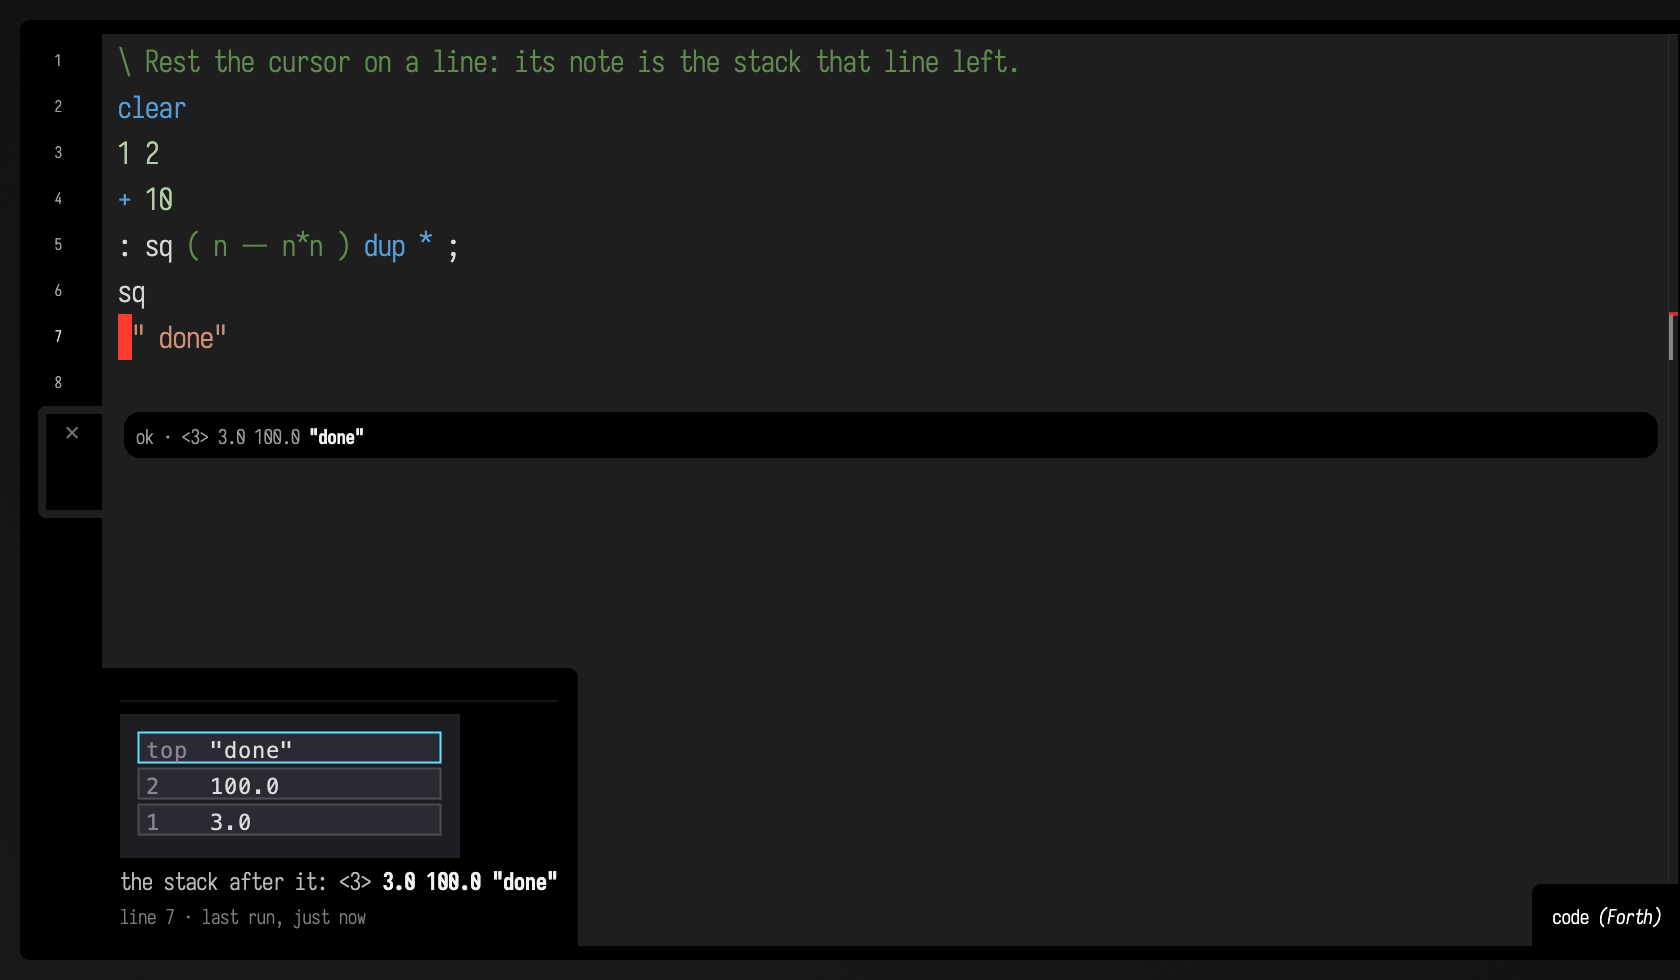
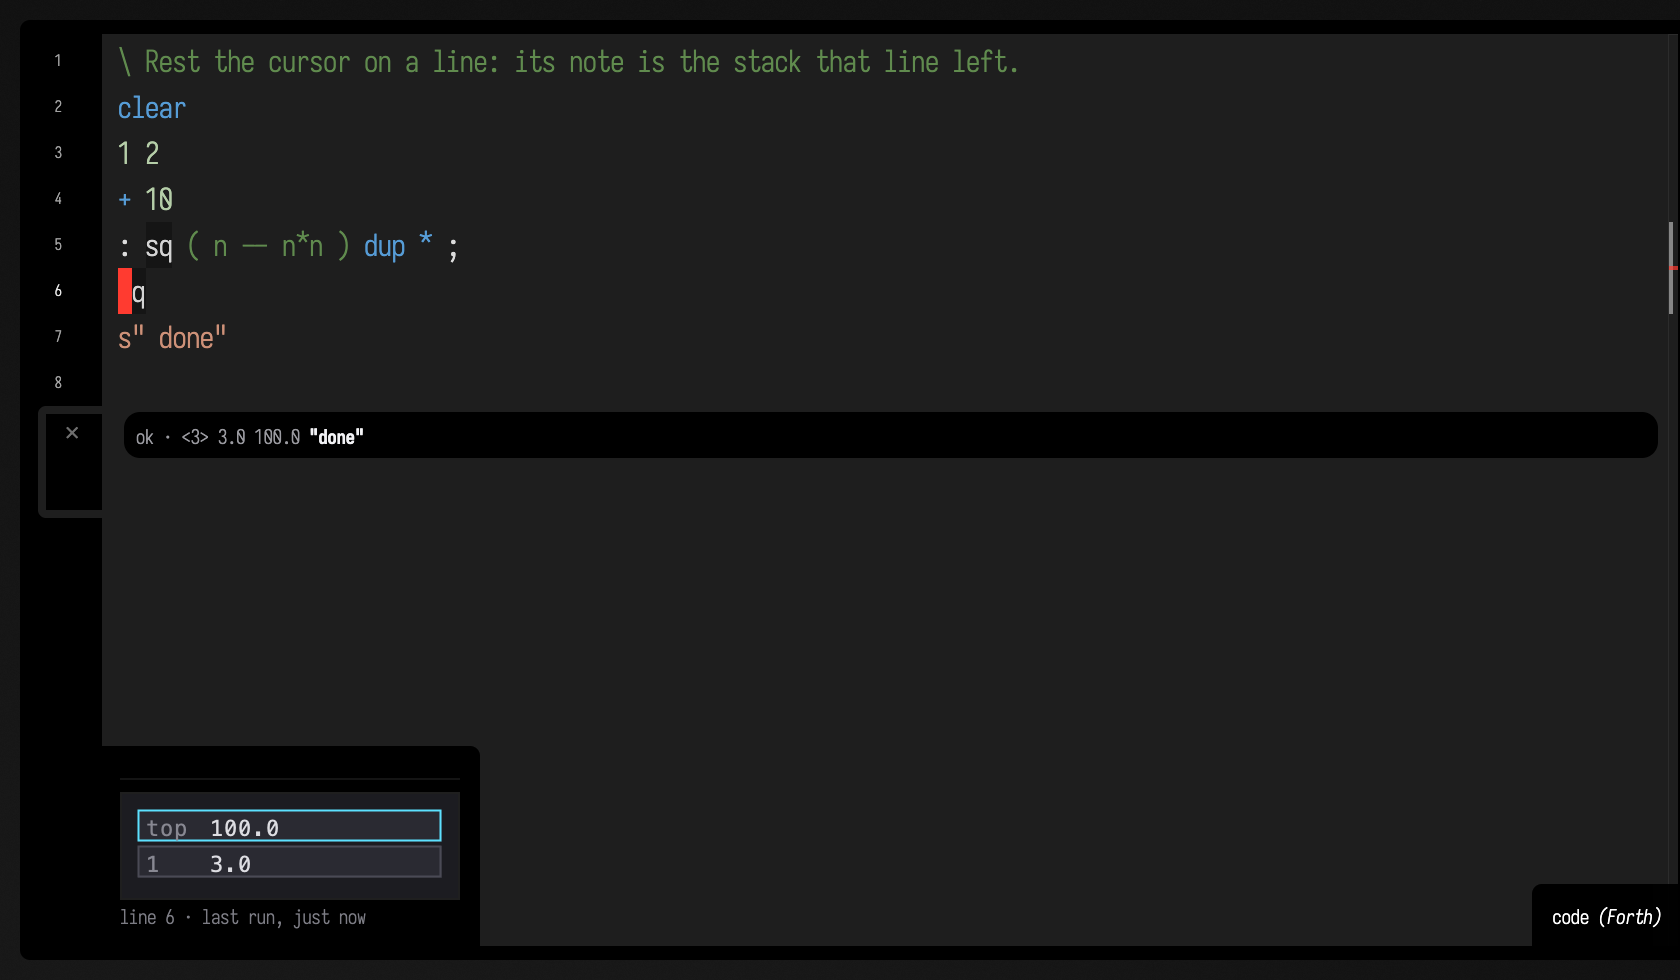
Line notes: a picture is not also written out; the Forth figure rests on a mid-program line
- A Forth note that draws its stack no longer writes the stack out beside the picture: the value line
  holds only what the picture does not say — "defines sq" — and an empty stack's picture already says
  "empty stack". LastRunNotes.Produced.besidePicture carries that; the caption keeps the whole sentence,
  so ReadLineNotes (whose reader may not see the picture) still gets the stack as text, and a note shown
  without its picture (its line changed since the run) shows the full value. The editor shows a note
  with meta and no value as its picture and meta alone. A Datalog rule's value line now only counts what
  it derives, since the table lists the facts; the caption still names the first few.
- forth_examples/line_note_stack.png rests on line 6, sq: the note (100.0 over 3.0) now says something the
  run's ok · <3> 3.0 100.0 "done" strip under the last line does not. Page text and alt text follow.
- Recaptured with the caret held solid (1617a1e95): the Forth and "changed since the last run" figures
  show the caret; the Python note figure is clipped to the note.

LastRunNotesTest: the split-note test now expects no value beside the picture, and a new test covers
"defines sq" beside a picture and the stack written out again once the line has changed (13 tests).

Changed region(s): [[0.0619, 0.6735, 0.3714, 0.9796], [0.9905, 0.2143, 1.0, 0.3673], [0.0619, 0.2755, 0.0929, 0.3673]]

diff --git a/src/jvmMain/kotlin/afield/stdlib/LastRunNotes.kt b/src/jvmMain/kotlin/afield/stdlib/LastRunNotes.kt
@@ -41,6 +41,13 @@ object LastRunNotes {
         val picture: (() -> ByteArray?)? = null,
         /** Device pixels per CSS pixel of the picture. */
         val imageScale: Int = 1,
+        /**
+         * What to show beside the picture, when it is shown: [value] less whatever the picture already
+         * says (a Forth stack is drawn, so it is not also written out). Null: [value]. The caption keeps
+         * the whole sentence, for a reader that cannot see the picture; a note without its picture (one
+         * whose line has changed since) shows [value].
+         */
+        val besidePicture: List<LineNotes.Segment>? = null,
     )
 
     private enum class Kind { PRODUCED, STOPPED, NOT_REACHED }
@@ -49,6 +56,7 @@ object LastRunNotes {
     private class Entry(
         val first: Int, val lines: List<String>, val kind: Kind, val caption: String, drawPng: () -> ByteArray?, val at: Long,
         val value: List<LineNotes.Segment> = emptyList(), val imageScale: Int = 1,
+        val besidePicture: List<LineNotes.Segment>? = null,
     ) {
         val last get() = first + lines.size - 1
         val png: ByteArray? by lazy(drawPng)
@@ -85,7 +93,7 @@ object LastRunNotes {
             .associateBy { it.firstLine to it.lastLine }.values
             .forEach { p ->
                 fresh += Entry(lineOffset + p.firstLine, linesOf(p.firstLine, p.lastLine), Kind.PRODUCED, p.caption,
-                    { p.png ?: p.picture?.invoke() }, at, p.value, p.imageScale)
+                    { p.png ?: p.picture?.invoke() }, at, p.value, p.imageScale, p.besidePicture)
             }
         if (stoppedAt != null && stoppedAt in 1..codeLines.size) {
             fresh.removeAll { stoppedAt + lineOffset in it.first..it.last }
@@ -132,8 +140,12 @@ object LastRunNotes {
             val ago = ago(now - e.at)
             val meta = "last run, $ago"
             return when (e.kind) {
-                Kind.PRODUCED -> LineNotes.Note("$meta · ${e.caption}", e.png, volatile = true, meta = meta,
-                    value = e.value.ifEmpty { listOf(LineNotes.plain(e.caption)) }, imageScale = if (e.png != null) e.imageScale else 1)
+                Kind.PRODUCED -> {
+                    val png = e.png
+                    val value = if (png != null && e.besidePicture != null) e.besidePicture else e.value.ifEmpty { listOf(LineNotes.plain(e.caption)) }
+                    LineNotes.Note("$meta · ${e.caption}", png, volatile = true, meta = meta, value = value,
+                        imageScale = if (png != null) e.imageScale else 1)
+                }
                 Kind.STOPPED -> LineNotes.Note("$meta · stopped here: ${e.caption}", volatile = true, meta = meta,
                     value = listOf(LineNotes.plain("stopped here: "), LineNotes.strong(e.caption)))
                 Kind.NOT_REACHED -> LineNotes.Note("$meta · not reached: the run stopped above this line", volatile = true, meta = meta,

diff --git a/src/jvmTest/kotlin/afield/stdlib/LastRunNotesTest.kt b/src/jvmTest/kotlin/afield/stdlib/LastRunNotesTest.kt
@@ -151,8 +151,8 @@ class LastRunNotesTest {
         ForthInterpreter().evalRecordingLineNotes(box, code, 0)
         val note = assertNotNull(LastRunNotes.note(box, "code", code, 1, now = System.currentTimeMillis()))
         assertEquals("last run, just now", note.meta)
-        assertEquals(listOf("1.0", "2.0"), note.value.filter { it.strong }.map { it.text })
-        assertEquals(note.caption, note.meta + " · " + note.value.joinToString("") { it.text }, "the caption is still the whole sentence")
+        assertTrue(note.value.isEmpty(), "the picture draws the stack, so it is not also written out")
+        assertEquals("last run, just now · the stack after it: <2> 1.0 2.0", note.caption, "the caption keeps it, for a reader that cannot see the picture")
         assertEquals(LineNotePictures.SCALE, note.imageScale)
         assertEquals(168 * LineNotePictures.SCALE, ImageIO.read(note.png!!.inputStream()).width, "drawn at 2x")
     }
@@ -185,5 +185,20 @@ class LastRunNotesTest {
         assertEquals("ok", forthOkHtml(emptyList(), 0))
         assertEquals("<span class=\"afield-forth-ok\">ok · &lt;3&gt; 3.0 100.0 <b>&quot;done&quot;</b></span>", forthOkHtml(listOf("3.0", "100.0", "\"done\""), 3))
         assertEquals("<span class=\"afield-forth-ok\">ok · &lt;9&gt; … 4 5 6 7 8 <b>&lt;9&gt;</b></span>", forthOkHtml((4..8).map { "$it" } + "<9>", 9))
+    }
+
+    @Test
+    fun besideAPictureANoteSaysOnlyWhatThePictureDoesNot() {
+        val box = Box("last-run-beside")
+        val code = "3\n: sq dup * ;\nsq"
+        ForthInterpreter().evalRecordingLineNotes(box, code, 0)
+        val defines = assertNotNull(LastRunNotes.note(box, "code", code, 2))
+        assertEquals("defines sq", defines.value.joinToString("") { it.text })
+        assertEquals(listOf("sq"), defines.value.filter { it.strong }.map { it.text })
+        assertTrue("the stack after it: <1> 3.0" in defines.caption)
+        // Changed since the run: no picture, so the stack is written out again.
+        val stale = assertNotNull(LastRunNotes.note(box, "code", "3\n: sq dup * ;\nsq sq", 3))
+        assertNull(stale.png)
+        assertEquals(listOf("9.0"), stale.value.filter { it.strong }.map { it.text })
     }
 }

diff --git a/src/jvmMain/kotlin/afield/forth/ForthInterface.kt b/src/jvmMain/kotlin/afield/forth/ForthInterface.kt
@@ -419,9 +419,14 @@ internal fun forthLineNote(first: Int, last: Int, top: List<String>, depth: Int,
         named.forEachIndexed { i, v -> if (i > 0) value += afield.stdlib.LineNotes.plain(" "); value += afield.stdlib.LineNotes.strong(afield.stdlib.LastRunNotes.oneLine(v, 40)) }
     }
     val caption = value.joinToString("") { it.text }
+    val drawn = defined.isEmpty() || depth > 0
+    // The picture draws the stack; beside it, only what it does not say — the words the line defined.
+    val besidePicture = if (defined.isEmpty()) emptyList()
+        else value.subList(0, value.indexOfFirst { it.text == " · " }.let { if (it < 0) value.size else it })
     return afield.stdlib.LastRunNotes.Produced(first, last, caption, value = value,
-        picture = if (defined.isEmpty() || depth > 0) ({ afield.stdlib.LineNotePictures.stack(top, depth) }) else null,
-        imageScale = afield.stdlib.LineNotePictures.SCALE)
+        picture = if (drawn) ({ afield.stdlib.LineNotePictures.stack(top, depth) }) else null,
+        imageScale = afield.stdlib.LineNotePictures.SCALE,
+        besidePicture = if (drawn) besidePicture else null)
 }
 
 /**

diff --git a/src/commonMain/resources/fieldSuggest.js b/src/commonMain/resources/fieldSuggest.js
@@ -230,7 +230,8 @@ export const lineNoteHtml = (note) => {
   if (!note) return "";
   const line = `line ${Number(note.line) || ""}`;
   const segments = Array.isArray(note.value) ? note.value : [];
-  if (segments.length === 0) {
+  // A note with a meta line but no value is one whose picture says it all (a Forth stack).
+  if (segments.length === 0 && !note.meta) {
     return `<figure class="afield-line-note">${lineNoteImageHtml(note)}` +
       `<figcaption>${line} · ${escapeHtml(note.caption || "")}</figcaption></figure>`;
   }
@@ -238,7 +239,7 @@ export const lineNoteHtml = (note) => {
     .map((segment) => (segment && segment.strong ? `<strong>${escapeHtml(segment.text || "")}</strong>` : escapeHtml((segment && segment.text) || "")))
     .join("");
   return `<figure class="afield-line-note">${lineNoteImageHtml(note)}` +
-    `<div class="afield-line-note-value">${value}</div>` +
+    (value ? `<div class="afield-line-note-value">${value}</div>` : "") +
     `<figcaption class="afield-line-note-meta">${line} · ${escapeHtml(note.meta || "")}</figcaption></figure>`;
 };
 

diff --git a/src/jvmMain/kotlin/afield/datalog/DatalogLineNotes.kt b/src/jvmMain/kotlin/afield/datalog/DatalogLineNotes.kt
@@ -65,8 +65,8 @@ object DatalogLineNotes {
         val caption = "derives ${derived.size} of $relation's $total fact${if (total == 1) "" else "s"}" +
             (if (derived.isNotEmpty()) ": $first" + (if (derived.size > CAPTIONED) ", …" else "") else "") + " · $model"
         val columns = head.terms.mapIndexed { i, t -> (t as? DlVar)?.name ?: "#${i + 1}" }
-        val value = listOf(P("derives "), S("${derived.size}"), P(" of $relation's $total fact${if (total == 1) "" else "s"}" +
-            (if (derived.isNotEmpty()) ": $first" + (if (derived.size > CAPTIONED) ", …" else "") else "")))
+        // The table lists the derived facts, so the value line only counts them; the caption lists the first few too.
+        val value = listOf(P("derives "), S("${derived.size}"), P(" of $relation's $total fact${if (total == 1) "" else "s"}"))
         return LineNotes.Note(caption, LineNotePictures.table(columns, derived.take(LineNotePictures.SHOWN), derived.size), volatile = true,
             meta = model, value = value, imageScale = LineNotePictures.SCALE)
     }

diff --git a/src/jvmMain/kotlin/afield/stdlib/LineNotes.kt b/src/jvmMain/kotlin/afield/stdlib/LineNotes.kt
@@ -38,7 +38,8 @@ object LineNotes {
          * The note split for the eye: [value], what the line came to, with its results marked [Segment.strong]
          * so the editor sets them in bold, and [meta], where the value came from ("last run, 12 s ago"). Empty
          * for a note that is only a [caption] (StackSL's, RectSL's), which the editor shows as before.
-         * [caption] stays the whole sentence, for anything that reads the note as text.
+         * [caption] stays the whole sentence, for anything that reads the note as text. With [meta] set,
+         * an empty [value] means the picture says it all: the editor shows the picture and [meta] alone.
          */
         val meta: String = "",
         val value: List<Segment> = emptyList(),

diff --git a/public/docs/reference/languages.md b/public/docs/reference/languages.md
@@ -826,15 +826,15 @@ a stack and a dictionary belong to one box and outlive the run that filled them.
 | Declaration | Summary |
 | --- | --- |
 | [<code class="highlight"><span class="k">fun</span> <span class="nc">ForthInterpreter</span><span class="p">.</span><span class="nf">evalRecordingLineNotes</span><span class="p">(</span><span class="n">box</span><span class="p">:</span> <span class="nc">Box</span><span class="p">,</span> <span class="n">code</span><span class="p">:</span> <span class="nc">String</span><span class="p">,</span> <span class="n">lineOffset</span><span class="p">:</span> <span class="nc">Int</span><span class="p">)</span><span class="p">:</span> <span class="nc">List</span><span class="p">&lt;</span><span class="nc">ForthDiagnostic</span><span class="p">&gt;</span></code>](source/jvmMain/afield/forth/ForthInterface/#L366) | `ForthInterpreter.eval` of `code`, recording for `box`'s line notes ([`afield.stdlib.LastRunNotes`](workspace.md#lastrunnotes-kt-lastrunnotes)) the data stack after each line — after the last top-level step that ended on it — the words each line defined, the line a failure stopped on and the lines that never ran. `lineOffset` is where `code` starts in the box, as `Execute.line` counts. |
-| [<code class="highlight"><span class="k">fun</span> <span class="nf">installForth</span><span class="p">(</span><span class="p">)</span></code>](source/jvmMain/afield/forth/ForthInterface/#L458) | Register ForthField as a main language, and make `isForthRoot` a property documents keep. |
-| [<code class="highlight"><span class="k">fun</span> <span class="nf">installForthPlugin</span><span class="p">(</span><span class="p">)</span></code>](source/jvmMain/afield/forth/ForthInterface/#L473) | Start the watcher that re-applies `forthTopologyNeedsUpdating` whenever the graph changes. |
-| [<code class="highlight"><span class="k">fun</span> <span class="nf">forthTopologyNeedsUpdating</span><span class="p">(</span><span class="n">values</span><span class="p">:</span> <span class="nc">Collection</span><span class="p">&lt;</span><span class="nc">Box</span><span class="p">&gt;</span><span class="p">)</span></code>](source/jvmMain/afield/forth/ForthInterface/#L486) | Give every child of a ForthField root a `ForthExecution`, and take it back from a child whose roots have all been switched off. |
+| [<code class="highlight"><span class="k">fun</span> <span class="nf">installForth</span><span class="p">(</span><span class="p">)</span></code>](source/jvmMain/afield/forth/ForthInterface/#L463) | Register ForthField as a main language, and make `isForthRoot` a property documents keep. |
+| [<code class="highlight"><span class="k">fun</span> <span class="nf">installForthPlugin</span><span class="p">(</span><span class="p">)</span></code>](source/jvmMain/afield/forth/ForthInterface/#L478) | Start the watcher that re-applies `forthTopologyNeedsUpdating` whenever the graph changes. |
+| [<code class="highlight"><span class="k">fun</span> <span class="nf">forthTopologyNeedsUpdating</span><span class="p">(</span><span class="n">values</span><span class="p">:</span> <span class="nc">Collection</span><span class="p">&lt;</span><span class="nc">Box</span><span class="p">&gt;</span><span class="p">)</span></code>](source/jvmMain/afield/forth/ForthInterface/#L491) | Give every child of a ForthField root a `ForthExecution`, and take it back from a child whose roots have all been switched off. |
 
 ### Top-level values { #forthinterface-kt-values }
 
 | Declaration | Summary |
 | --- | --- |
-| [<code class="highlight"><span class="k">var</span> <span class="nc">Box</span><span class="p">.</span><span class="n">isForthRoot</span><span class="p">:</span> <span class="nc">Boolean</span><span class="o">?</span></code>](source/jvmMain/afield/forth/ForthInterface/#L448) | Marks a box as a ForthField root, which makes its children ForthField boxes. |
+| [<code class="highlight"><span class="k">var</span> <span class="nc">Box</span><span class="p">.</span><span class="n">isForthRoot</span><span class="p">:</span> <span class="nc">Boolean</span><span class="o">?</span></code>](source/jvmMain/afield/forth/ForthInterface/#L453) | Marks a box as a ForthField root, which makes its children ForthField boxes. |
 
 ### ForthExecution { #forthinterface-kt-forthexecution }
 

diff --git a/public/docs/forth_examples.md b/public/docs/forth_examples.md
@@ -37,18 +37,19 @@ s"hypot^2 = " 3 4 hypot2 str str+ println
 ### What each line left on the stack
 
 The editor keeps a record of what each line did the last time the box ran. Rest the cursor on a line
-and the note beside it draws the data stack as that line left it, top uppermost, with the values in
-bold, or names the words the line defined; a run that failed marks the line it stopped on and the lines
+and the note beside it draws the data stack as that line left it, top uppermost, and names the words the
+line defined; a run that failed marks the line it stopped on and the lines
 it never reached. The note reads that record — resting on a line never runs it. The stack outlives a
 run, so a box that wants a fresh one starts with `clear`. See
 [Line notes](language_extensions.md#line-notes).
 
 A run that finishes cleanly and prints nothing says what it left behind, rather than a bare `ok`: the
 depth of the stack and its top values, the topmost in bold. An empty stack gets a plain `ok`. Both are
-in this figure — the box has just been run, and the cursor rests on its last line:
+in this figure — the box has just been run, the strip under its last line is what the whole run left, and
+the note is what line 6, `sq`, left, with `sq` having squared the 10 above it:
 
-```diffstatic_runner {data-lang=kotlin capture="ui" region="window" clip-selector=".monaco-editor-container" screenshot="assets/forth_examples/line_note_stack.png" transcript="assets/transcripts/line_notes_forth_setup.yaml" capture-box="line_notes_forth" padding="10" wait="0" timeout="240" embed=true hidden=true name="forth-line-note" w="560" alt="A seven-line ForthField box in the editor. Under its last line, s-quote done, a strip reads ok · <3> 3.0 100.0 done, with done in bold: what the run left. The caret rests on line 7, and the note at the foot of the editor draws the stack as three cells, top uppermost and outlined: done, 100.0, 3.0. Under the picture: the stack after it: <3> 3.0 100.0 done, the three values in bold, and in small muted type line 7 · last run, just now."}
-// Run the box and rest on line 7 through the keyboard, as a person would. The pane is sized to
+```diffstatic_runner {data-lang=kotlin capture="ui" region="window" clip-selector=".monaco-editor-container" screenshot="assets/forth_examples/line_note_stack.png" transcript="assets/transcripts/line_notes_forth_setup.yaml" capture-box="line_notes_forth" padding="10" wait="0" timeout="240" embed=true hidden=true name="forth-line-note" w="560" alt="A seven-line ForthField box in the editor. Under its last line, s-quote done, a strip reads ok · <3> 3.0 100.0 done, with done in bold: what the whole run left. The caret rests on line 6, sq, and the note below draws the stack that line left as two cells, top uppermost and outlined: 100.0 above 3.0. Under the picture, in small muted type: line 6 · last run, just now."}
+// Run the box and rest on line 6 through the keyboard, as a person would. The pane is sized to
 // the figure, so the note (which sits at the pane's foot) stays beside the code it describes.
 ui.openEditor("line_notes_forth")
 ui.pause(700)
@@ -60,7 +61,7 @@ ui.press("Alt+0")
 ui.waitForSelector(".afield-forth-ok", 20000.0)
 repeat(4) { ui.press("PageUp") }
 ui.press("Home")
-repeat(6) { ui.press("ArrowDown") }
+repeat(5) { ui.press("ArrowDown") }
 ui.waitForSelector(".hoverlay-left .afield-line-note img", 20000.0)
 ui.pause(800)
 ```

diff --git a/dev_docs/agents/LINE_NOTES_EVERY_LANGUAGE.md b/dev_docs/agents/LINE_NOTES_EVERY_LANGUAGE.md
@@ -31,6 +31,12 @@ This extends it to ForthField, Clojure, Python and Datalog, and to the AI4 tool 
   value and show as before. Bold text rather than `.h` HTML of the value (the human's choice,
   2026-09-28): real `.h` would mean keeping the value object past the run — memory, and a mutable
   object would show today's state rather than the last run's.
+- **A picture is not also written out.** `Produced.besidePicture` is what a note shows next to its
+  picture: for Forth, the words a line defined and nothing of the stack (an empty stack's picture says
+  "empty stack"). The caption — and so `ReadLineNotes`, whose reader may not see the picture — keeps the
+  stack as text, and a note shown without its picture (its line changed since the run) falls back to
+  the full value. With `meta` set and `value` empty, the editor shows the picture and meta alone. A
+  Datalog rule's value line counts what it derives; the table lists them, and the caption names the first few.
 - **Forth's `ok` marker** says what the run left: `ok · <3> 3.0 100.0 "done"`, the top value bold
   (`forthOkHtml`). Bold needs HTML, and the editor renders HTML output as a block under the line; a
   plain-text marker would stay inline beside it but could not be bold. A bare `ok` for an empty stack.
@@ -108,6 +114,17 @@ re-preps the pane — and re-syncs the editor, which would also undo the stale f
 shorter Playwright viewport does not help: prep holds the pane at 840 px minimum whatever the window. Forth fences with `data-lang=forth` are wrapped as a Kotlin call
 (`renderForthDocsSnippet`), not run under a Forth root, so a plain `capture="editor"` Forth fence cannot
 show the Forth `ok` marker; that is why the marker is in the `ui` figure.
+
+**The caret in captures.** The main editor blinks its caret (Monaco's default `cursorBlinking: "blink"`),
+so a still caught it dark about half the time. Screenshot prep now holds it solid
+(`holdCaretSolidForCapture` in `Main.kt`) and every editor capture path gives the editor its own setting
+back once the image is written (`restoreCaretBlinkAfterCapture` in `docs/screenshot.kt`: window/editor
+captures, `ui.shot`, `ui.shotClip`). Only the capture page's editor is touched. The other editor-showing
+figures pick this up when they are next recaptured; they were not all recaptured on 2026-09-28 (42
+fences on 21 pages: clojure 5, diff-player 5, datalog 4, python 4, visualizers 4, keybindings 2,
+mobile_controllers 2, profiling_timeline 2, survivalGuide 2, and one each on aiFeatures,
+automating_field, completion_doc_browser, completion_ranking, dataframe, forth_examples, funFeatures,
+interactive_guides, language_extensions, simulation_clock, sonic_pi, spatial_navigation).
 
 ## Verification
 

diff --git a/public/docs/language_extensions.md b/public/docs/language_extensions.md
@@ -271,7 +271,9 @@ goes through FieldSuggest, not Monaco's built-in suggest widget.
 Rest the cursor on a line of a box's program, or open completion there, and Field shows a note about
 that line beside the cursor and at the top of the completion popup. A note is what the line came to —
 set in the face value visualizers use, with its results in bold — over a small, muted line saying where
-that came from and how old it is, and a picture when the language has one to draw. Pictures are drawn at
+that came from and how old it is, and a picture when the language has one to draw. What a picture shows
+is not written out again beside it; the AI tool below, which may not see the picture, still gets it as
+text. Pictures are drawn at
 twice their size and shown at their own, so they stay sharp on a Retina display. A language gives notes
 by registering a provider for the property its programs live in, so this is not a closed list; these
 are the ones Field's own languages give:
@@ -280,7 +282,7 @@ are the ones Field's own languages give:
 | --- | --- | --- |
 | StackSL | the stage the line ends, drawn, or the value it stores in a mark | the stage |
 | RectSL | the scene built up to the line's statement, the rectangles it makes outlined | the scene |
-| ForthField | the data stack after the line on the last run, or the words it defined | the stack, top uppermost |
+| ForthField | the data stack after the line on the last run, drawn rather than written, and the words it defined | the stack, top uppermost |
 | Clojure | what each top-level form evaluated to on the last run, and its type | — |
 | Python | what each top-level statement came to on the last run: an expression's value, the name it assigned, what it defined, or just that it ran | — |
 | FieldML | the value each top-level `let` bound on the last run, and its type; the final expression's value | — |
